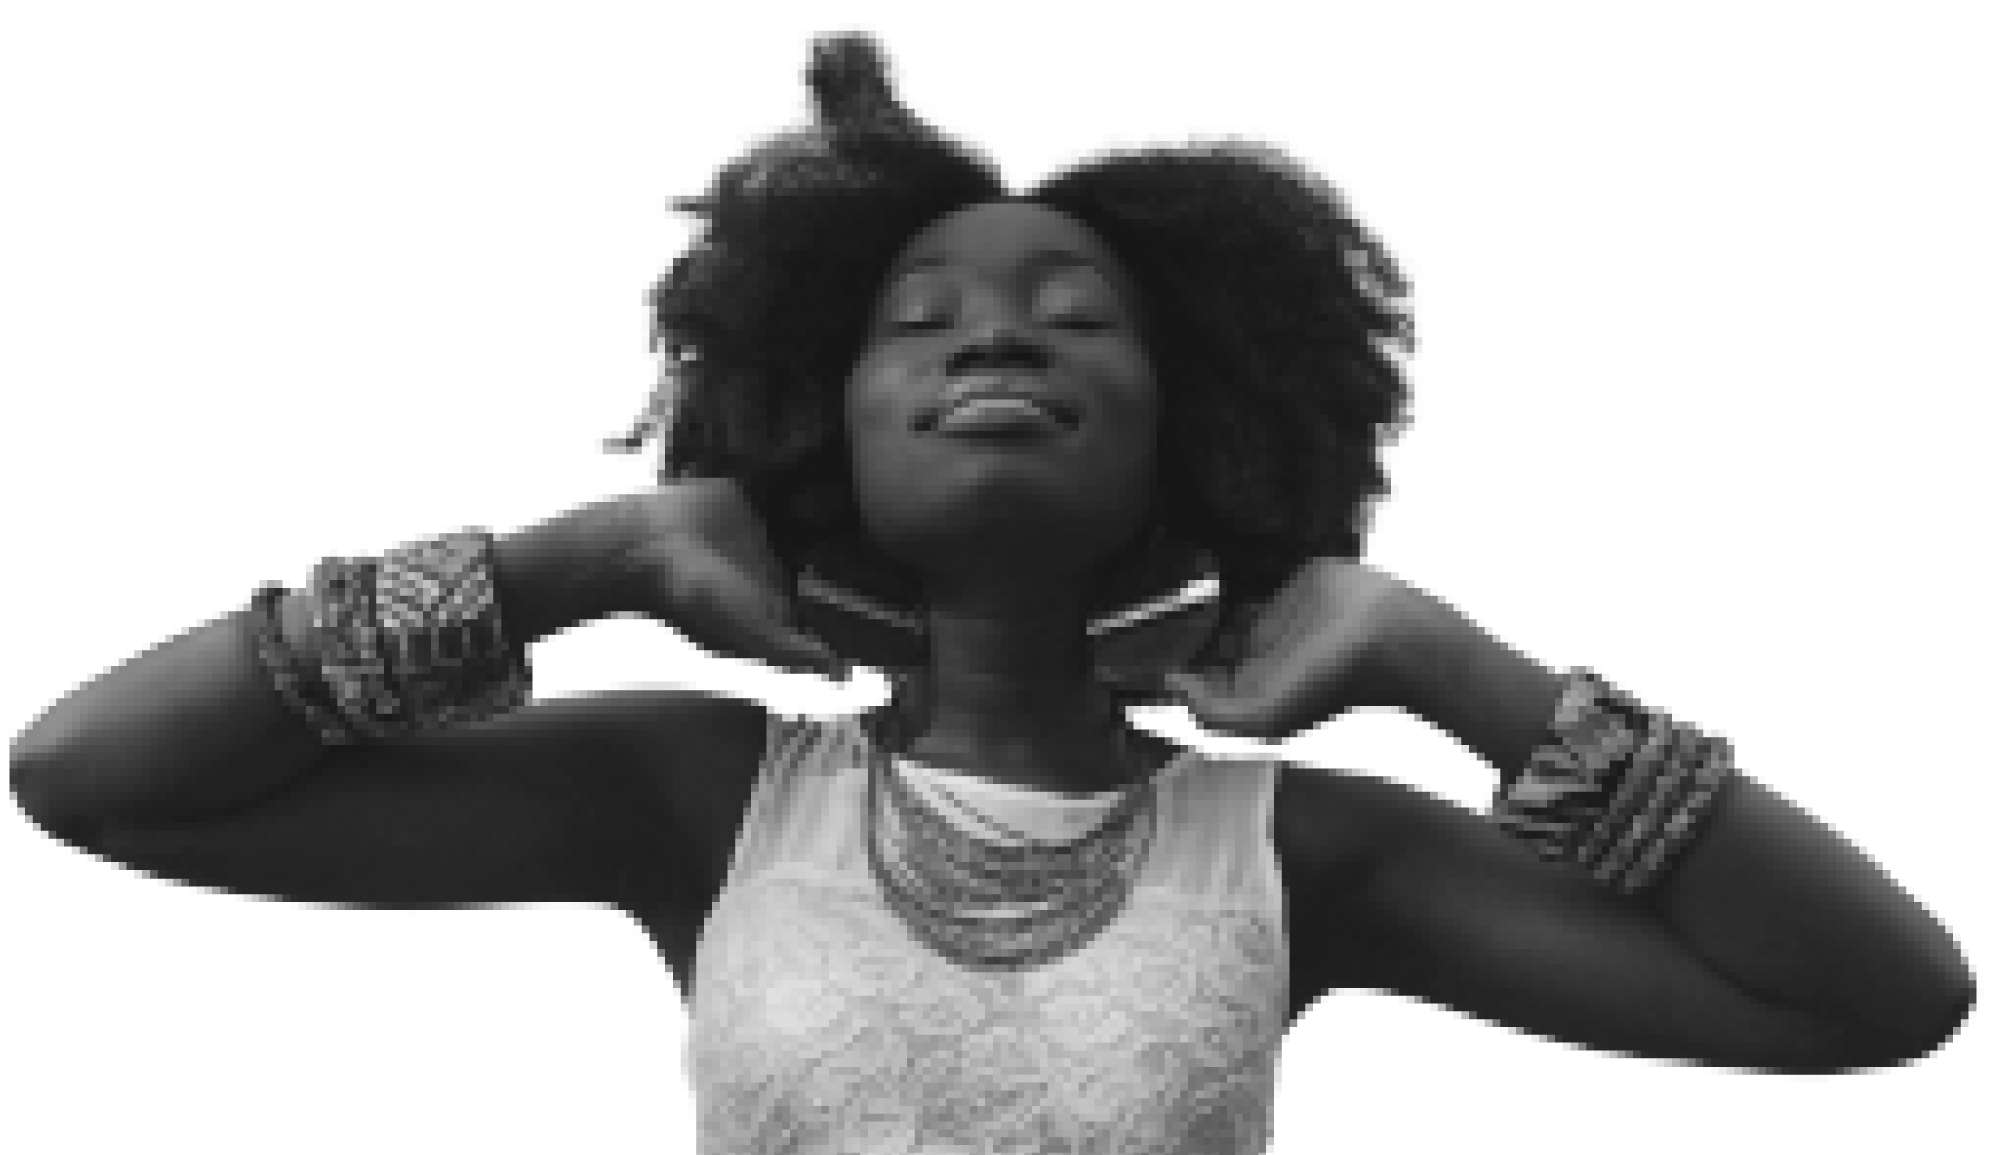
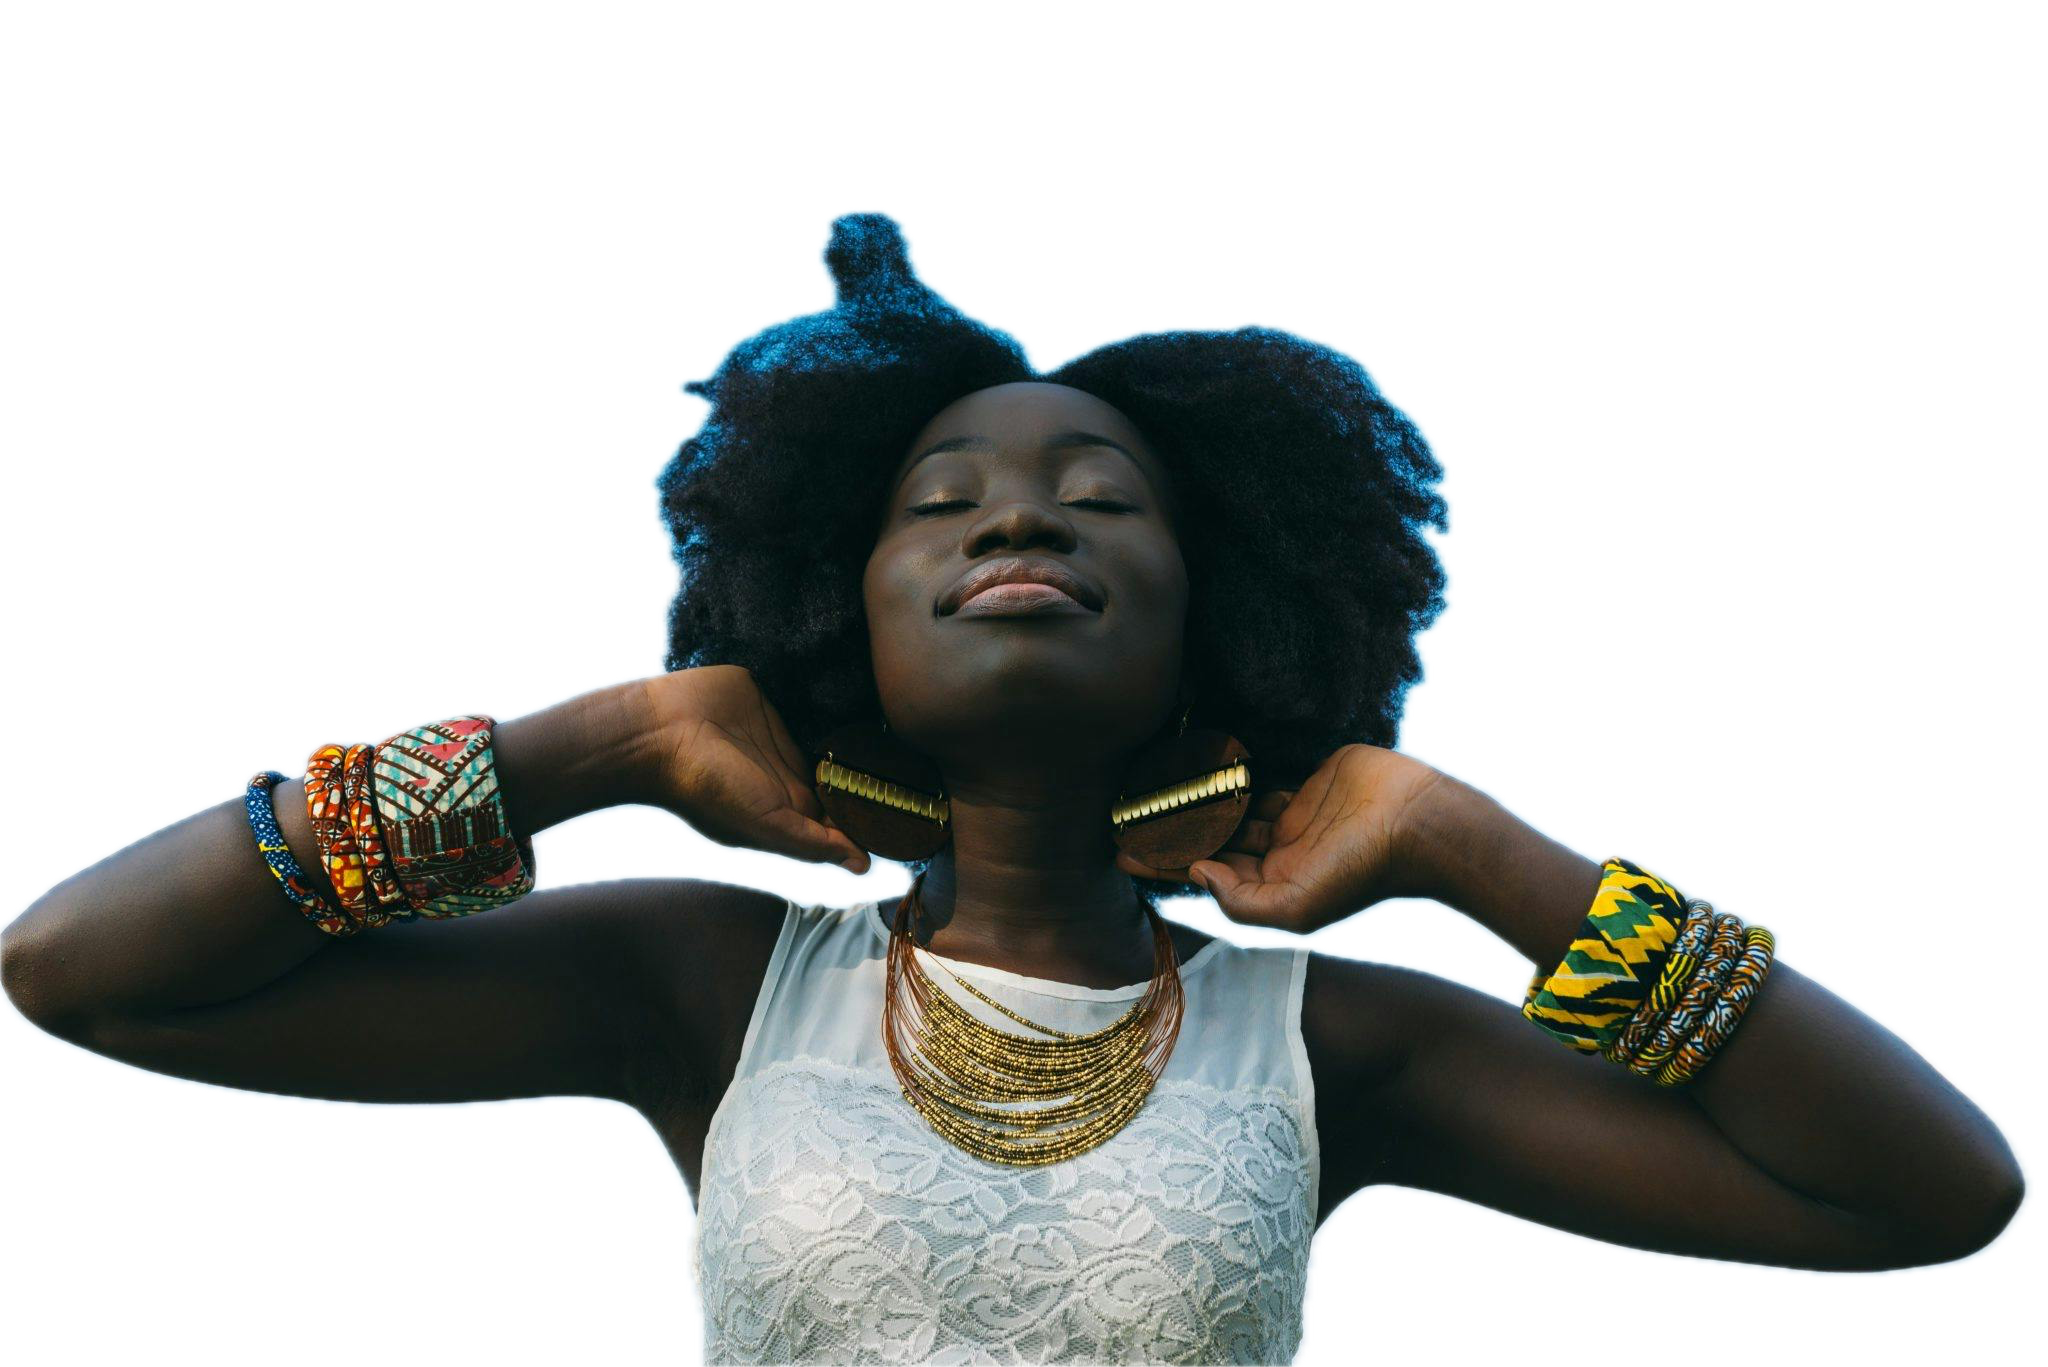
imagens com efeito de cor

diff --git a/index.html b/index.html
@@ -102,7 +102,7 @@
         <section id="home01bem_vindos">
             <div id="containerBemVindos">
                 <div id="psImgBemVindo">
-                    <img id="imgLogo03" src="./IMG/imgPadrao01.png" alt="logocompleto">
+                    <img id="imgLogo03" class="img-bw imagemPersistente" src="./IMG/imgPadrao01.png" alt="logocompleto">
                 </div>
                 <div class="caixaTXT">
                     <h1 class="ttTitulos">BEM-VINDOS</h1>
@@ -237,7 +237,7 @@
         <section class="fundoBranco">
         <div id="containerinclusao">
             <div id="psImgInclusao">
-                <img id="imgPadrao02" class="fade-in" src="./IMG/imgPadrao02.png" alt="logocompleto">
+                <img id="imgPadrao02" class="fade-in img-bw imagemPersistente" src="./IMG/imgPadrao02.png" alt="logocompleto">
             </div>
             <div class="caixaTXT">
                 <div class="titulosAgrupados">

diff --git a/JS/animation.js b/JS/animation.js
@@ -13,3 +13,14 @@ document.addEventListener("DOMContentLoaded", () => {
 
     elements.forEach(el => observer.observe(el));
 });
+
+
+/* efeito colorido */
+
+    const imagens = document.querySelectorAll(".imagemPersistente");
+
+    imagens.forEach(img => {
+        img.addEventListener("mouseenter", () => {
+            img.classList.add("img-colorido");
+        });
+    });

diff --git a/CSS/base.css b/CSS/base.css
@@ -76,6 +76,20 @@
 }
 
 
+/*efeito pb para colorido*/
+
+.img-bw {
+    filter: grayscale(100%);
+    transition: filter 0.4s ease-in-out;
+}
+
+.img-colorido {
+    filter: grayscale(0%) !important;
+}
+
+
+
+
 /*caixa formatação de texto*/
 
 .caixaTXT{
